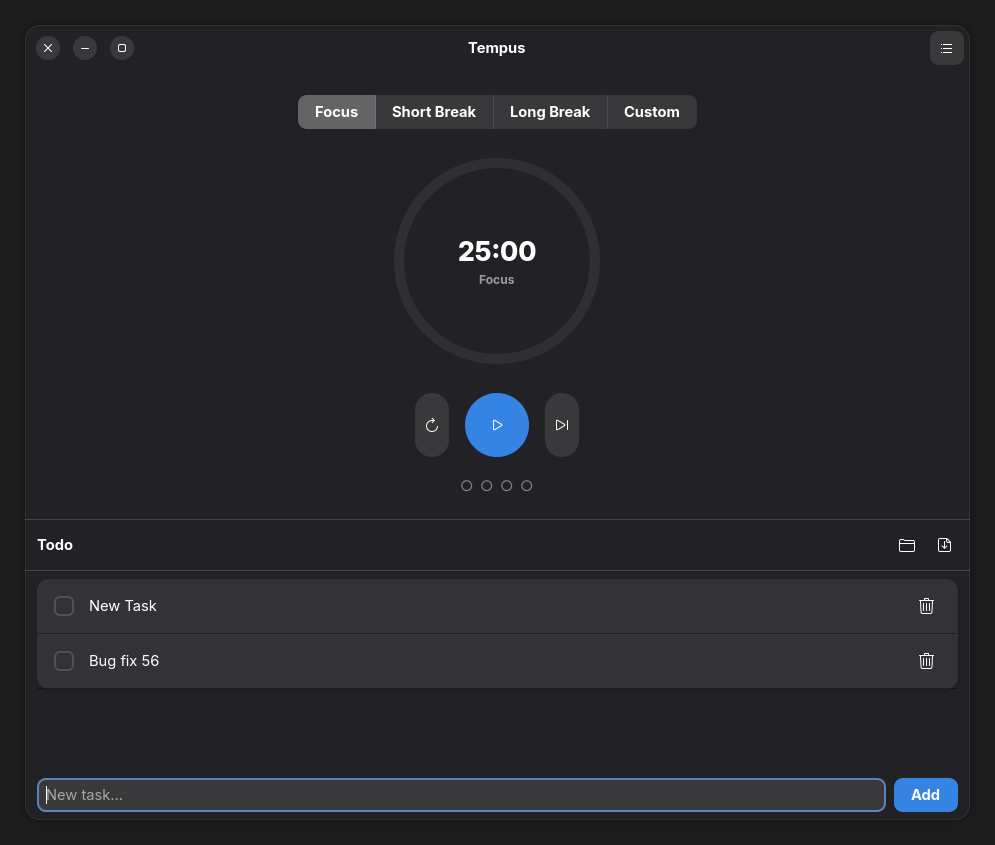
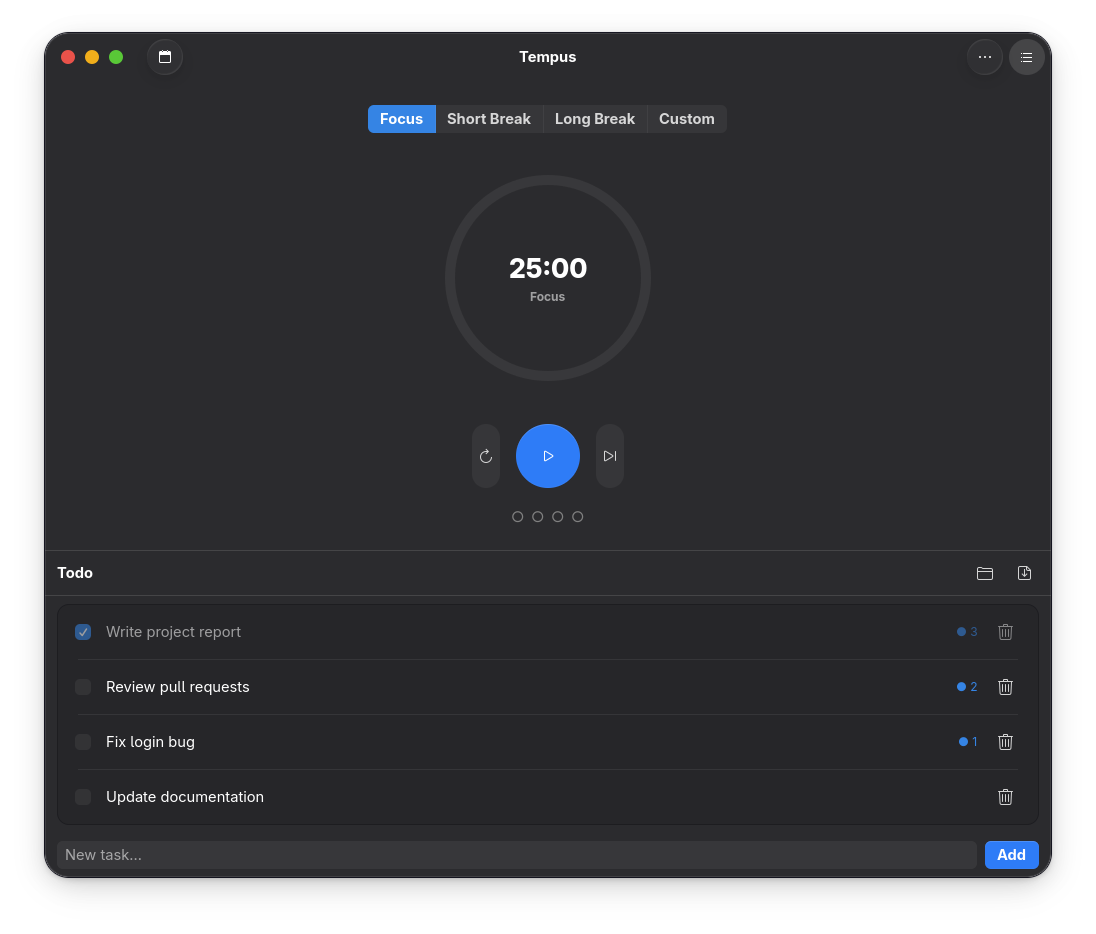
docs: update screenshots and README installation guide
- Replace old screenshot-breaks with fresh screenshot-tasks, screenshot-stats,
  and screenshot-preferences showing current UI
- Expand README with step-by-step installation for Fedora 44, Ubuntu, Arch —
  both from source and local Flatpak build, with collapsible distro sections
- Add pomodoro counter and daily stats to feature list

diff --git a/README.md b/README.md
@@ -12,7 +12,7 @@ Built with GTK4 and libadwaita. Stays out of your way while you work.
 [![GNOME](https://img.shields.io/badge/GNOME-GTK4%20%2B%20Adwaita-4A86CF)](https://www.gnome.org/)
 
 <img src="docs/screenshot-tasks.png" alt="Focus session with todo list" width="300"/>
-<img src="docs/screenshot-breaks.png" alt="Short break session" width="300"/>
+<img src="docs/screenshot-stats.png" alt="Today's focus stats" width="300"/>
 
 </div>
 
@@ -24,9 +24,18 @@ Built with GTK4 and libadwaita. Stays out of your way while you work.
 - **Circular progress ring** — colour-coded by session type so you can tell at a glance where you are
 - **Auto-cycle** — after each focus session Tempus suggests the right break and advances automatically
 - **Session dots** — shows how many focus sessions you have completed in the current cycle
-- **Todo list** — add tasks inline or load them from a Markdown file; export back to Markdown when you're done
-- **Desktop notifications** — notified the moment a session ends, even if the window is minimised
+- **Todo list** — add tasks inline or load them from a Markdown file; export back to Markdown when done
+- **Pomodoro counter per task** — each task tracks how many focus sessions have been spent on it
+- **Daily stats** — see your total focus time and a breakdown by task for the current day
 - **Preferences** — change every duration and the cycle length live, no restart needed
+- **Focus mode** — optionally silence GNOME notifications while a session is running
+- **Desktop notifications** — notified the moment a session ends, even if the window is minimised
+
+<div align="center">
+<img src="docs/screenshot-preferences.png" alt="Preferences panel" width="280"/>
+</div>
+
+---
 
 ## Installation
 
@@ -37,28 +46,138 @@ flatpak install flathub io.github.EmaLica.Tempus
 flatpak run io.github.EmaLica.Tempus
 ```
 
+---
+
 ### Build from source
 
-**Requirements** (Fedora):
+The quickest way to run Tempus without packaging it.
+
+#### Requirements
+
+<details>
+<summary><strong>Fedora 40 / 41 / 42 / 44</strong></summary>
+
 ```bash
 sudo dnf install python3-gobject gtk4 libadwaita glib2-devel
 ```
 
-**Run without installing:**
+</details>
+
+<details>
+<summary><strong>Ubuntu / Debian / Linux Mint</strong></summary>
+
+```bash
+sudo apt install python3-gi python3-gi-cairo gir1.2-gtk-4.0 \
+                 gir1.2-adw-1 libglib2.0-dev
+```
+
+</details>
+
+<details>
+<summary><strong>Arch Linux / Manjaro</strong></summary>
+
+```bash
+sudo pacman -S python-gobject gtk4 libadwaita glib2
+```
+
+</details>
+
+#### Run
+
 ```bash
 git clone https://github.com/EmaLica/Tempus
 cd Tempus
-chmod +x run.sh && ./run.sh
+chmod +x run.sh
+./run.sh
 ```
 
-`run.sh` compiles the GSettings schema locally and launches the app directly — no system install needed for development.
+`run.sh` compiles the GSettings schema locally and launches the app directly — no system install needed.
 
-**Build as Flatpak locally:**
+---
+
+### Build and install as a local Flatpak
+
+Use this if you want to test Tempus exactly as it will appear on Flathub, or if you want a proper desktop entry and app icon without touching your system Python.
+
+#### Step 1 — Install the build tools
+
+<details>
+<summary><strong>Fedora 40 / 41 / 42 / 44</strong></summary>
+
 ```bash
-flatpak install flathub org.gnome.Platform//50 org.gnome.Sdk//50
+sudo dnf install flatpak flatpak-builder
+```
+
+</details>
+
+<details>
+<summary><strong>Ubuntu / Debian</strong></summary>
+
+```bash
+sudo apt install flatpak flatpak-builder
+```
+
+</details>
+
+<details>
+<summary><strong>Arch Linux</strong></summary>
+
+```bash
+sudo pacman -S flatpak flatpak-builder
+```
+
+</details>
+
+#### Step 2 — Add Flathub and install the GNOME runtime
+
+This only needs to be done once per machine.
+
+```bash
+flatpak remote-add --if-not-exists flathub https://dl.flathub.org/repo/flathub.flatpakrepo
+flatpak install flathub org.gnome.Platform//48 org.gnome.Sdk//48
+```
+
+> **Note:** if `48` is not yet available on your system, try `47` or run
+> `flatpak remote-ls flathub | grep org.gnome.Platform` to see which versions are listed.
+
+#### Step 3 — Clone the repository
+
+```bash
+git clone https://github.com/EmaLica/Tempus
+cd Tempus
+```
+
+#### Step 4 — Build and install
+
+```bash
 flatpak-builder --user --install --force-clean build-dir flatpak/io.github.EmaLica.Tempus.yml
+```
+
+What each flag does:
+
+| Flag | Meaning |
+|---|---|
+| `--user` | Installs only for your user, no `sudo` needed |
+| `--install` | Installs the result right after building |
+| `--force-clean` | Wipes `build-dir/` before building, avoids stale artefacts |
+
+The first build downloads the GNOME SDK modules and can take a few minutes. Subsequent builds are cached and much faster.
+
+#### Step 5 — Run
+
+```bash
 flatpak run io.github.EmaLica.Tempus
 ```
+
+Tempus will also appear in GNOME Shell's application grid after installation.
+
+#### Uninstall
+
+```bash
+flatpak uninstall io.github.EmaLica.Tempus
+```
+
+---
 
 ## Todo list — Markdown format
 
@@ -71,6 +190,8 @@ Tempus imports and exports the standard GFM task-list syntax:
 ```
 
 Plain `- item` lines without a checkbox are imported as uncompleted tasks.
+
+---
 
 ## Contributing
 
